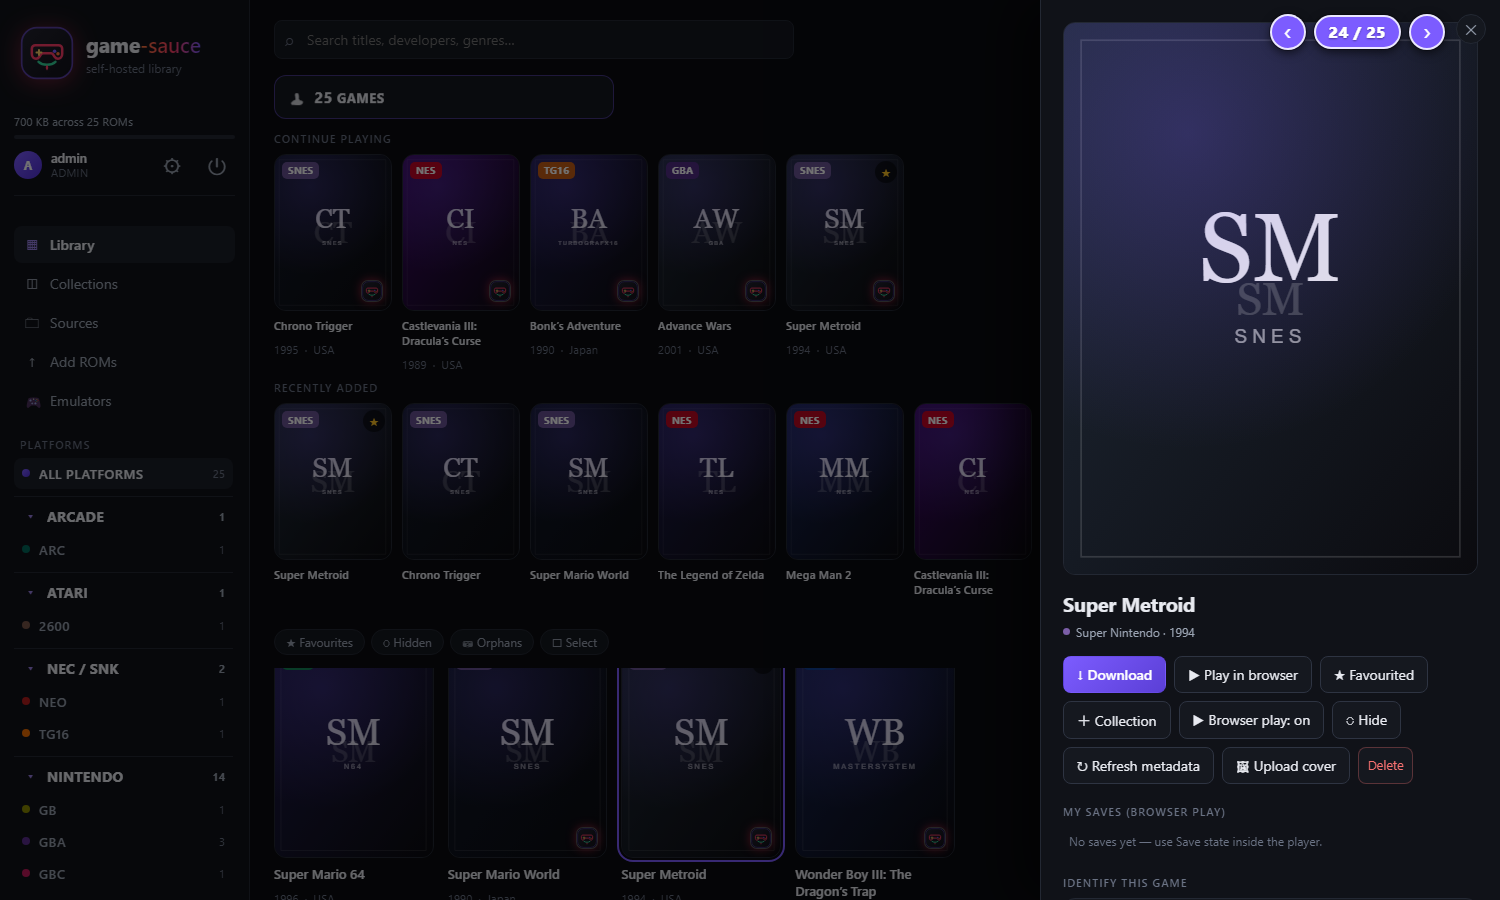
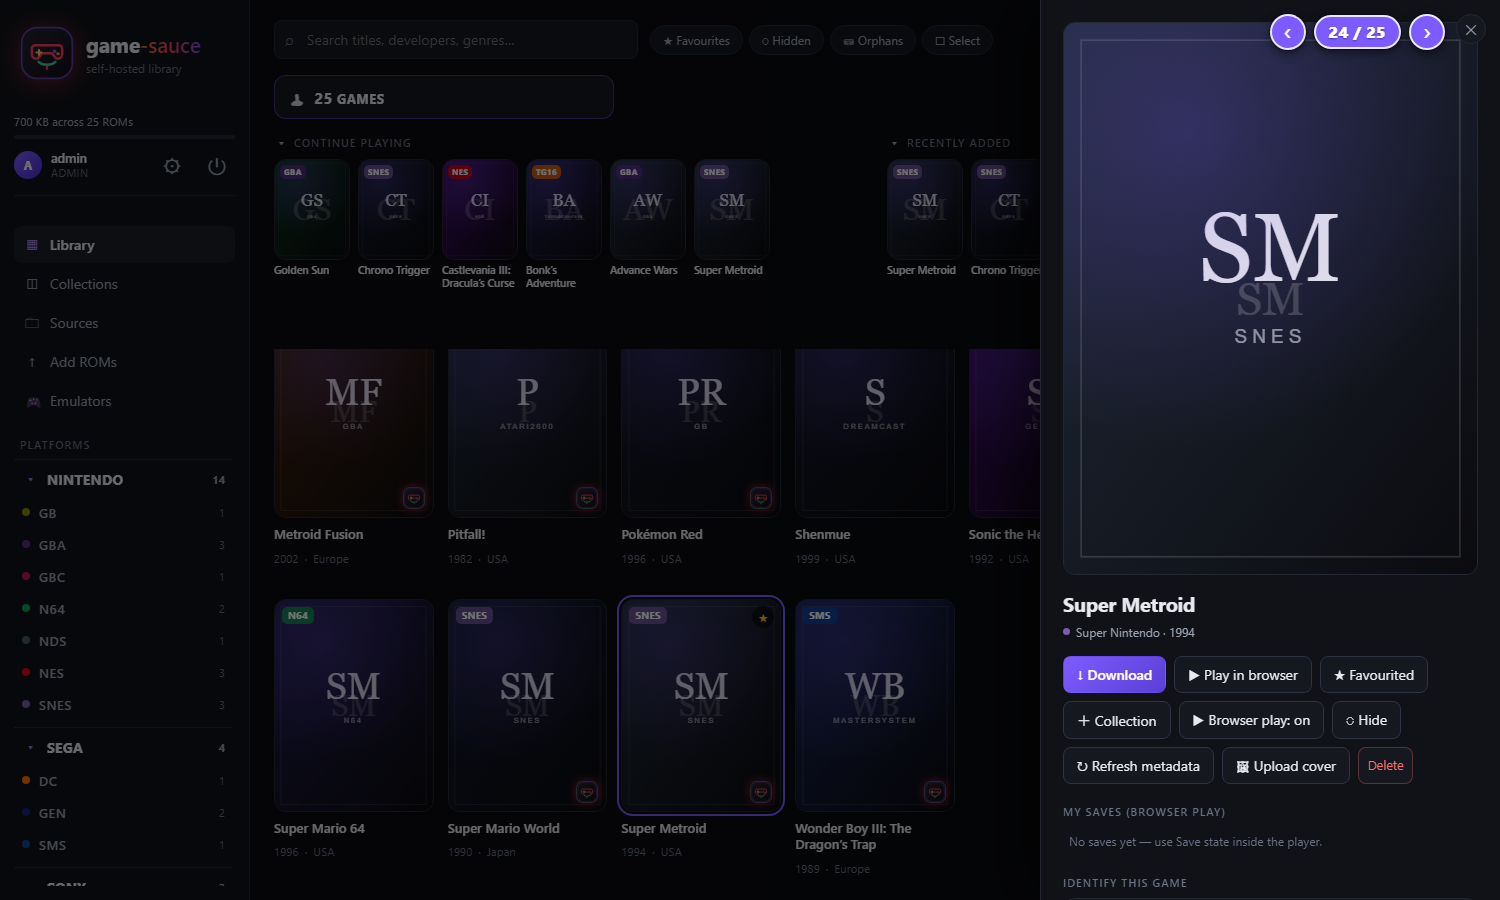
docs: refresh README and screenshots for the new Library layout; mention the controller exit combo

diff --git a/public/gamepad.js b/public/gamepad.js
@@ -209,7 +209,7 @@
       legend = document.createElement('div');
       legend.id = 'gp-legend';
       legend.setAttribute('aria-hidden', 'true');
-      legend.innerHTML = '<b>◀▲▼▶</b> move <span>·</span> <b>A</b> select <span>·</span> <b>B</b> back <span>·</span> <b>X</b> play <span>·</span> <b>Y</b> search <span>·</span> <b>LB/RB</b> prev/next';
+      legend.innerHTML = '<b>◀▲▼▶</b> move <span>·</span> <b>A</b> select <span>·</span> <b>B</b> back <span>·</span> <b>X</b> play <span>·</span> <b>Y</b> search <span>·</span> <b>LB/RB</b> prev/next <span>·</span> in a game: hold <b>Select+Start</b> to close';
       document.body.appendChild(legend);
     }
     legend.classList.toggle('on', on);

diff --git a/README.md b/README.md
@@ -24,8 +24,12 @@ Express + SQLite on the server, a single static page on the client, no build ste
   avoids wrong covers.
 - **Verifies dumps** against No-Intro / Redump DATs and shows have/want reports.
 - **Collections, favourites, hidden games, users and roles, an activity log.**
-- **Backups and restore** built in: download or schedule them, and restore with a safety copy.
-- **Controller friendly:** navigate the whole interface with a gamepad.
+- **Backups and restore** built in: download them or schedule them to a folder, and restore from
+  a file or straight from the server list. A safety backup is taken first and the replaced data is kept.
+- **Controller friendly:** navigate the whole interface with a gamepad, and hold Select + Start to
+  close a running game.
+- **Tidy Library home:** search and filters on one line, compact collapsible rows for *Continue
+  playing* and *Recently added*, and a heading with the platform name when you filter.
 - **Scales** from 1080p to 4K, with a retro-neon sign-in screen.
 
 <details>
@@ -33,9 +37,10 @@ Express + SQLite on the server, a single static page on the client, no build ste
 
 | | |
 |---|---|
-| ![Game details](docs/screenshots/detail.png) | ![Backups and restore](docs/screenshots/backups.png) |
-| ![Sources](docs/screenshots/sources.png) | ![Gamepad navigation](docs/screenshots/gamepad.png) |
-| ![Settings](docs/screenshots/settings.png) | ![Emulator guide](docs/screenshots/emulators.png) |
+| ![One platform](docs/screenshots/platform.png) | ![Game details](docs/screenshots/detail.png) |
+| ![Backups and restore](docs/screenshots/backups.png) | ![Gamepad navigation](docs/screenshots/gamepad.png) |
+| ![Sources](docs/screenshots/sources.png) | ![Settings](docs/screenshots/settings.png) |
+| ![Emulator guide](docs/screenshots/emulators.png) | |
 
 ![Sign-in screen](docs/screenshots/login.png)
 

diff --git a/docs/USER-GUIDE.md b/docs/USER-GUIDE.md
@@ -51,6 +51,10 @@ delete-from-disk. Imported copies in `storage/roms` are removed together with th
 
 ![The Library](screenshots/library.png)
 
+Picking a platform shows its name above the tiles:
+
+![One platform selected](screenshots/platform.png)
+
 - **Sidebar:** your name, settings (⚙) and sign out (⏻) sit under the logo. Below are Library,
   Collections, Sources, Add ROMs and Emulators, then every platform with a count, grouped by
   family. Click a platform to filter; it stays selected when you refresh the page.
